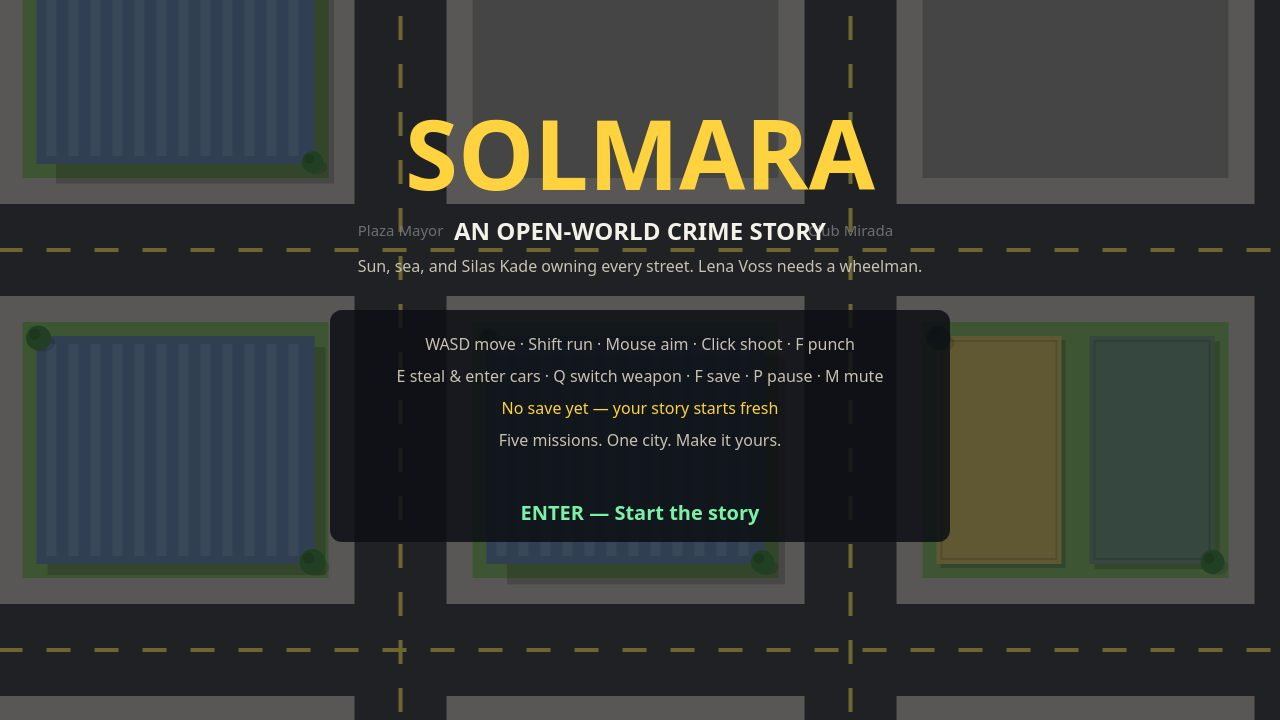
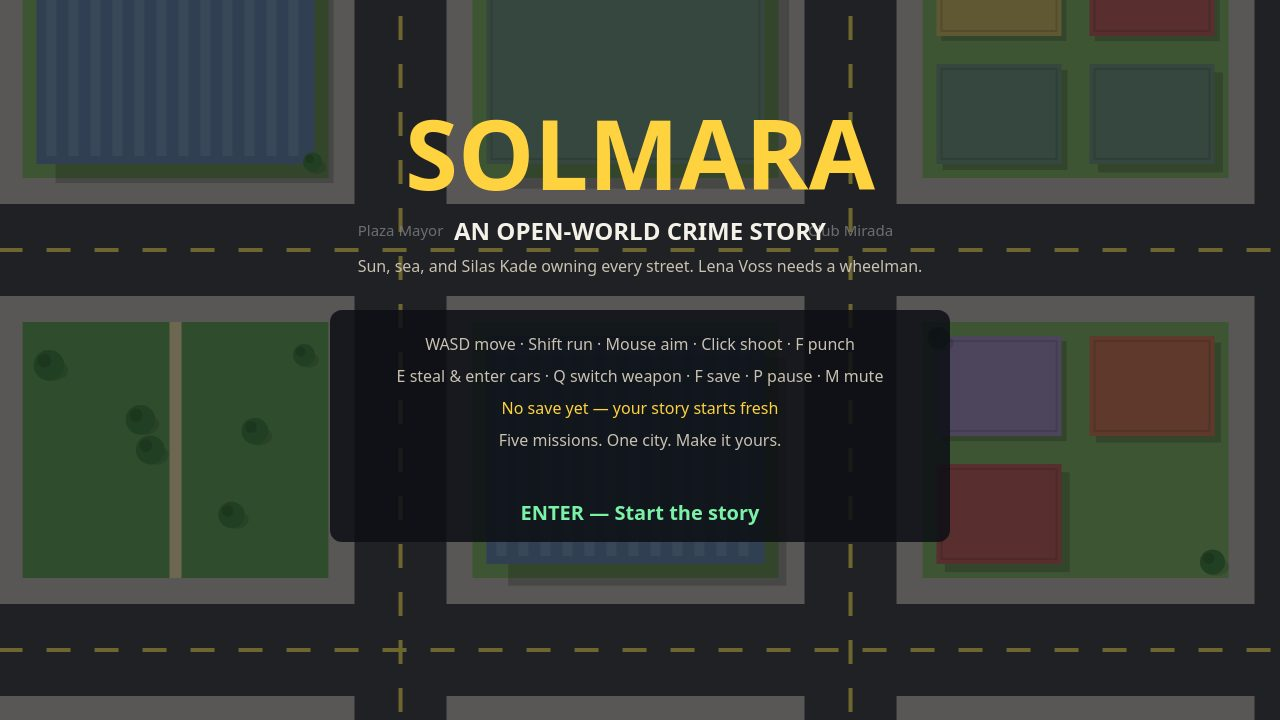
Solmara polish: livelier traffic, versioned saves, HUD and shot fixes

diff --git a/game/src/render.js b/game/src/render.js
@@ -4,7 +4,7 @@
 // sun-soaked colours, soft shadows — all drawn from the world's state.
 import { CAR, DISTRICTS, FONT, PALETTE, PLAYER, ROADS, VIEW, WEAPONS, WORLD } from './config.js';
 import { PLACES } from './city.js';
-import { STORY } from './missions.js';
+import { MISSION_COUNT, STORY } from './missions.js';
 
 export const SCREEN_TITLE = 'title';
 export const SCREEN_PLAY = 'play';
@@ -620,7 +620,7 @@ export function createRenderer(canvas) {
       ctx.fillStyle = 'rgba(10,14,20,0.6)';
       ctx.fillRect(0, 0, VIEW.width, VIEW.height);
       drawPanel('Paused', [
-        `Money $${p.money.toLocaleString('en-US')}  ·  Missions done ${state.missionsDone} / 5`,
+        `Money $${p.money.toLocaleString('en-US')}  ·  Missions done ${state.missionsDone} / ${MISSION_COUNT}`,
         'F — save your progress   ·   H — how to play',
         'Your save stays in this browser.',
       ], 'P or Enter to resume');

diff --git a/game/src/city.js b/game/src/city.js
@@ -67,9 +67,10 @@ export function createCity(random) {
       if (district === 'beach') continue;
       const roll = random();
       if (roll < 0.16) {
-        // A park: grass, trees, a path.
+        // A park: grass, trees, a path. Parks also break up the downtown grid
+        // so the minimap reads as a city, not a chessboard.
         parks.push({ x: x0, y: y0, w: x1 - x0, h: y1 - y0 });
-        const count = random.int(5, 9);
+        const count = random.int(6, 10);
         for (let i = 0; i < count; i += 1) {
           trees.push({ x: random.range(x0 + 20, x1 - 20), y: random.range(y0 + 20, y1 - 20), r: random.range(10, 16) });
         }

diff --git a/main.ts b/main.ts
@@ -7,7 +7,8 @@
 // crime game: explore the city of Solmara on foot or by car, steal cars, dodge
 // traffic and pedestrians, lose the police at five wanted levels, run five story
 // missions for Lena Voss against Silas Kade, fight with fists and guns, and save
-// your progress — all with a HUD, a minimap and synthesised sound.
+// your progress — all with a HUD, a minimap and synthesised sound. Entry name:
+// Solmara.
 //
 // Serve it locally with `node serve.ts`, then open http://localhost:8080.
 // Outside the grader's container, MAKEFUN_OUTPUT_DIR stands in for /output:

diff --git a/game/src/random.js b/game/src/random.js
@@ -1,7 +1,8 @@
 // A small seeded random number generator (mulberry32): the same seed gives the
 // same city and the same game, which is what makes the screenshot scenes
-// repeatable. It also hands out a shuffled pick and a range helper.
-
+// repeatable — and what makes a saved seed replay the same traffic pattern.
+// The helpers below keep every caller on the same stream: no Math.random()
+// anywhere in the game, so a seed fully determines a run.
 export function createRandom(seed) {
   let a = seed | 0;
   function random() {

diff --git a/game/src/save.js b/game/src/save.js
@@ -24,11 +24,12 @@ function write(key, value) {
 export function loadSave() {
   const save = read(SAVE_KEY);
   if (!save || typeof save.x !== 'number' || typeof save.missionIndex !== 'number') return null;
+  if (save.version !== 1) return null; // A save from another version is not trusted.
   return save;
 }
 
 export function storeSave(save) {
-  return write(SAVE_KEY, save);
+  return write(SAVE_KEY, { ...save, version: 1, savedAt: Date.now() });
 }
 
 export function clearSave() {

diff --git a/game/index.html b/game/index.html
@@ -3,6 +3,7 @@
 <head>
 <meta charset="utf-8">
 <meta name="viewport" content="width=device-width, initial-scale=1">
+<meta name="description" content="Solmara — an original open-world crime game. Explore the city on foot or by car, steal cars, lose the police, and run five story missions.">
 <title>Solmara — An Open-World Crime Story</title>
 <style>
   html, body { margin: 0; height: 100%; overflow: hidden; background: #101418; }

diff --git a/game/src/missions.js b/game/src/missions.js
@@ -13,6 +13,9 @@ export const STORY = {
   intro: 'Solmara — sun, sea, and Silas Kade owning every street. Lena Voss needs a wheelman. That is you.',
 };
 
+/** How many missions the story holds; the HUD and the end screen read this. */
+export const MISSION_COUNT = 5;
+
 function stepGoto(place, label, hint) {
   return { type: 'goto', x: place.x, y: place.y, label, hint: hint ?? `Head to ${place.name}.` };
 }

diff --git a/game/src/audio.js b/game/src/audio.js
@@ -14,6 +14,7 @@ export function createAudio() {
   let musicStep = 0;
 
   // A sunny, slightly tense loop in A minor: bass walks, lead answers.
+  // 190 ms a step keeps it brisk without rushing the driving.
   const BASS = [55, 55, 65.4, 49, 55, 55, 82.4, 73.4];
   const LEAD = [440, 0, 523.25, 0, 659.25, 0, 587.33, 523.25, 440, 0, 392, 0, 329.63, 392, 440, 0];
   const STEP_MS = 190;

diff --git a/game/src/config.js b/game/src/config.js
@@ -48,8 +48,8 @@ export const CAR = {
   stealWanted: 1,
 };
 
-export const TRAFFIC = { count: 26, speed: 150, speedJitter: 60 };
-export const PEDS = { count: 34, speed: 62, speedJitter: 26 };
+export const TRAFFIC = { count: 28, speed: 150, speedJitter: 60 };
+export const PEDS = { count: 36, speed: 62, speedJitter: 26 };
 
 export const POLICE = {
   maxCars: 6,

diff --git a/README.md b/README.md
@@ -16,7 +16,13 @@ vendored make.fun library.
 **Solmara** is an original open-world crime game that runs offline in a desktop
 browser from static files — no network, no build step. Sun, sea, and Silas Kade
 owning every street: you are Marco Solis, a wheelman for hire, taking jobs from
-fixer Lena Voss across five story missions.
+fixer Lena Voss across five story missions:
+
+1. **First Wheels** — steal a car and bring it to Lena's garage.
+2. **The Pickup** — collect a package at the docks, deliver it to Club Mirada.
+3. **Payback** — take on Kade's crew at the warehouse, then lay low.
+4. **The Getaway** — steal a car and lose a two-star heat on the way to the safehouse.
+5. **King of Solmara** — end it at Marina Tower, face to face with Silas Kade.
 
 - **A city to explore** — Solmara: downtown towers, the marina, the docks, an
   industrial quarter, residential streets, parks, and Playa Sol beach, all on a
